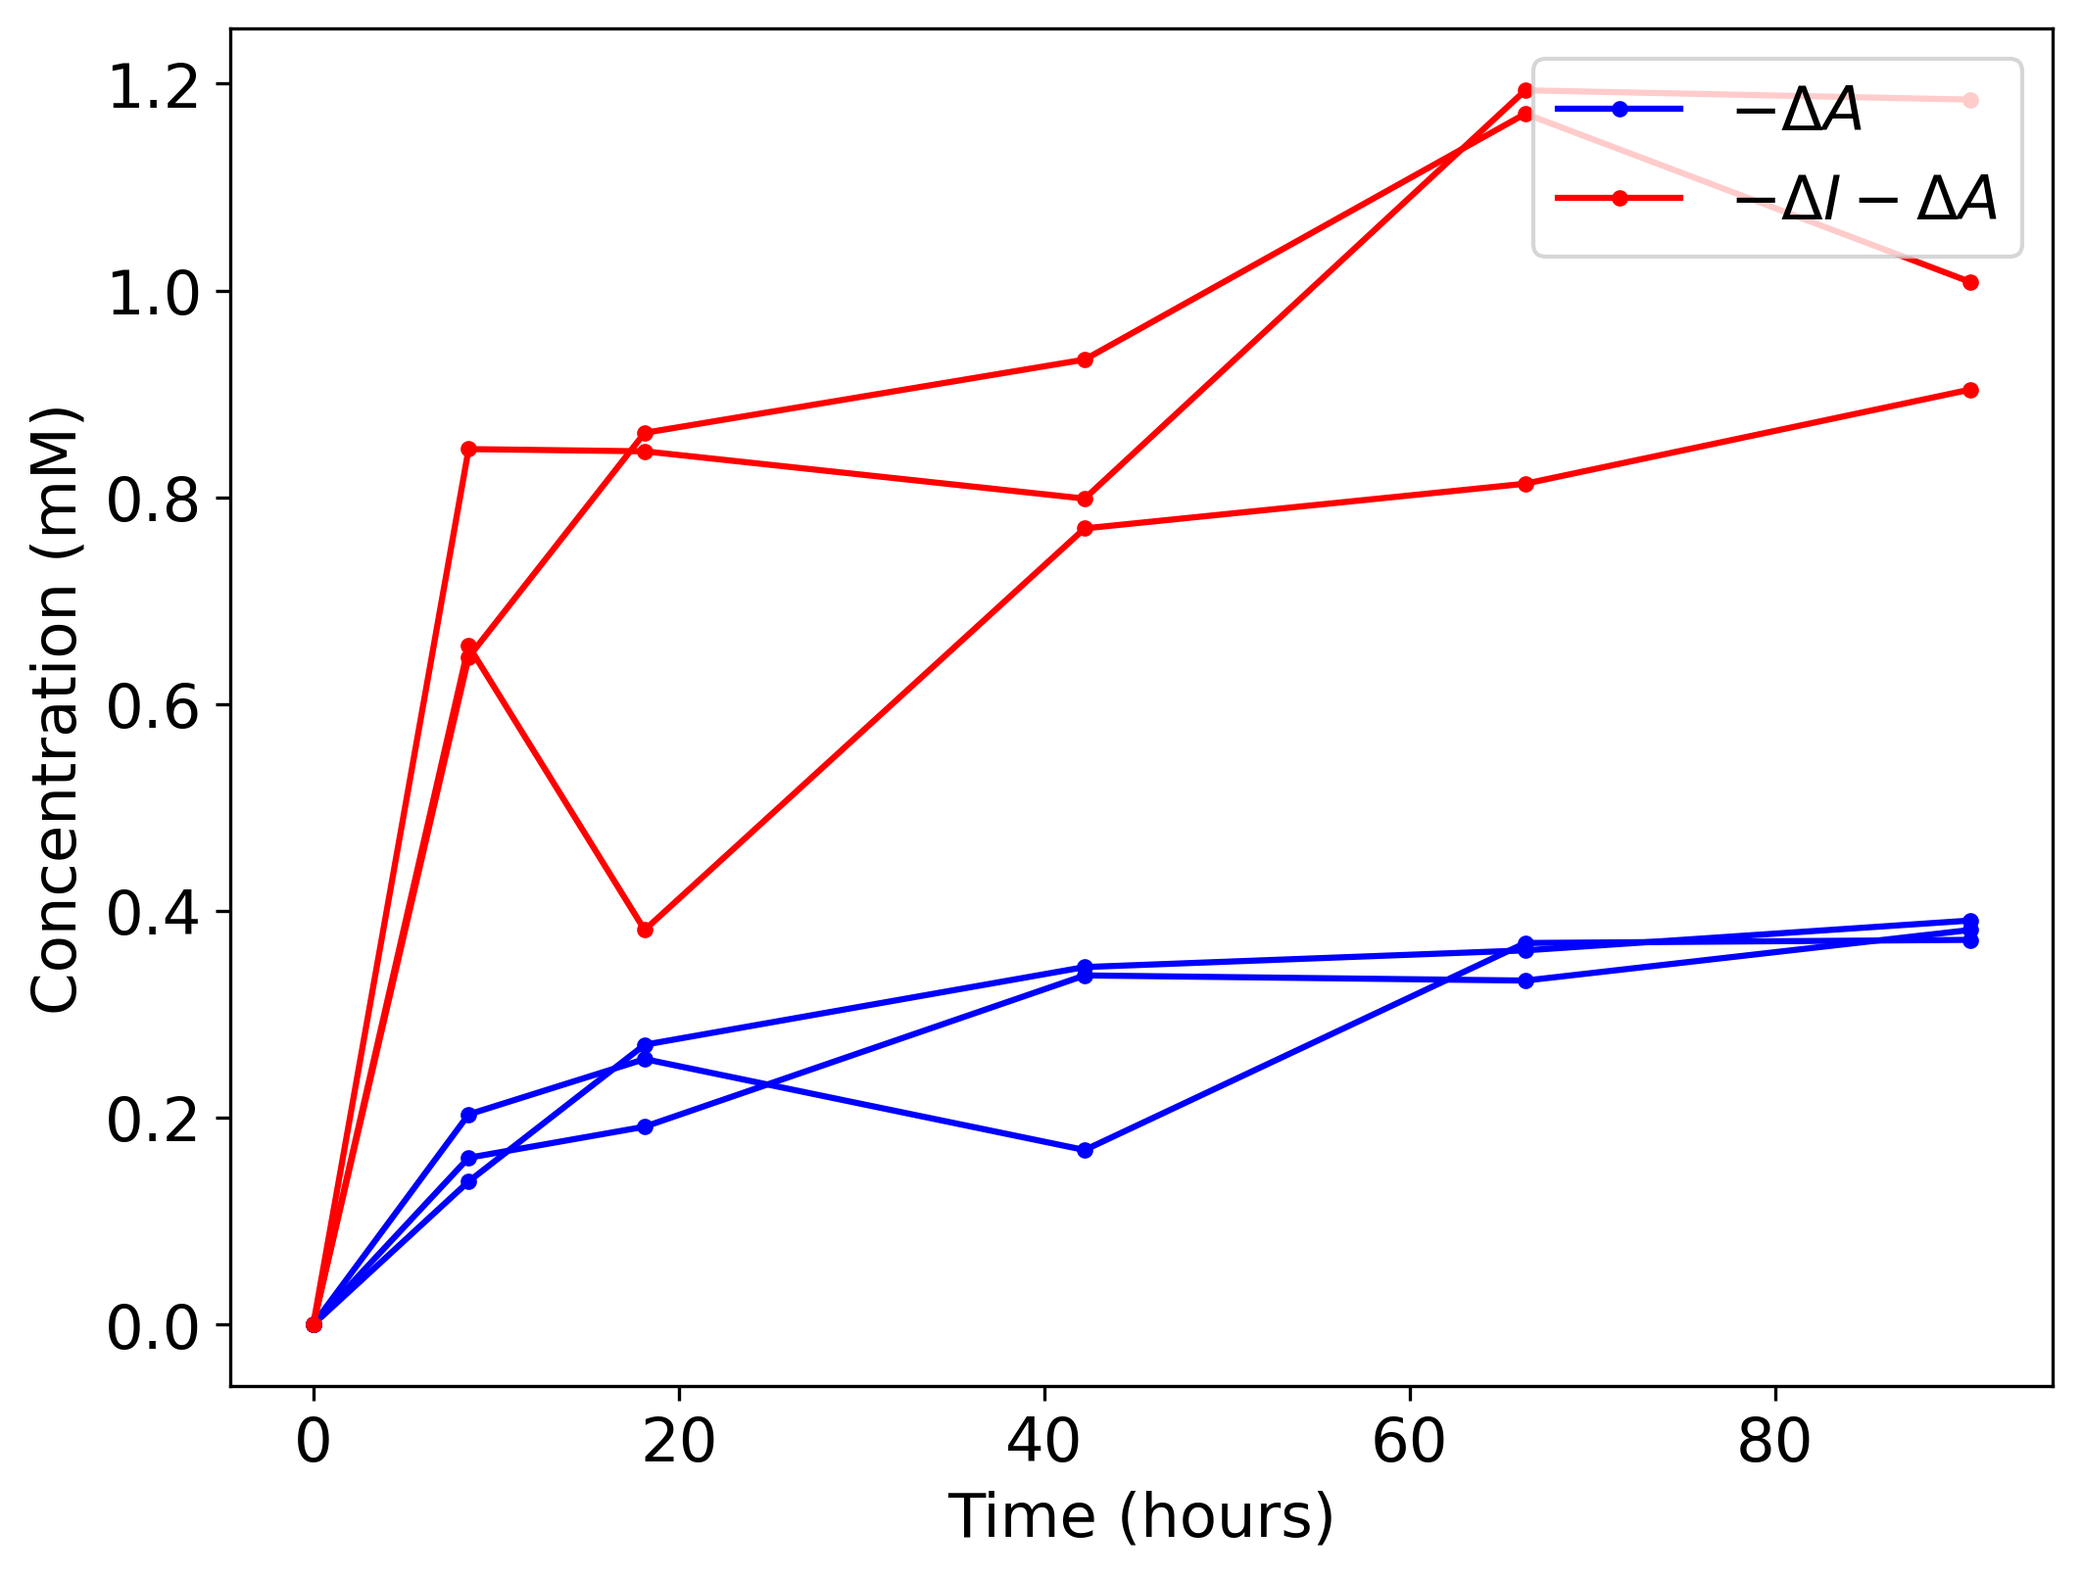
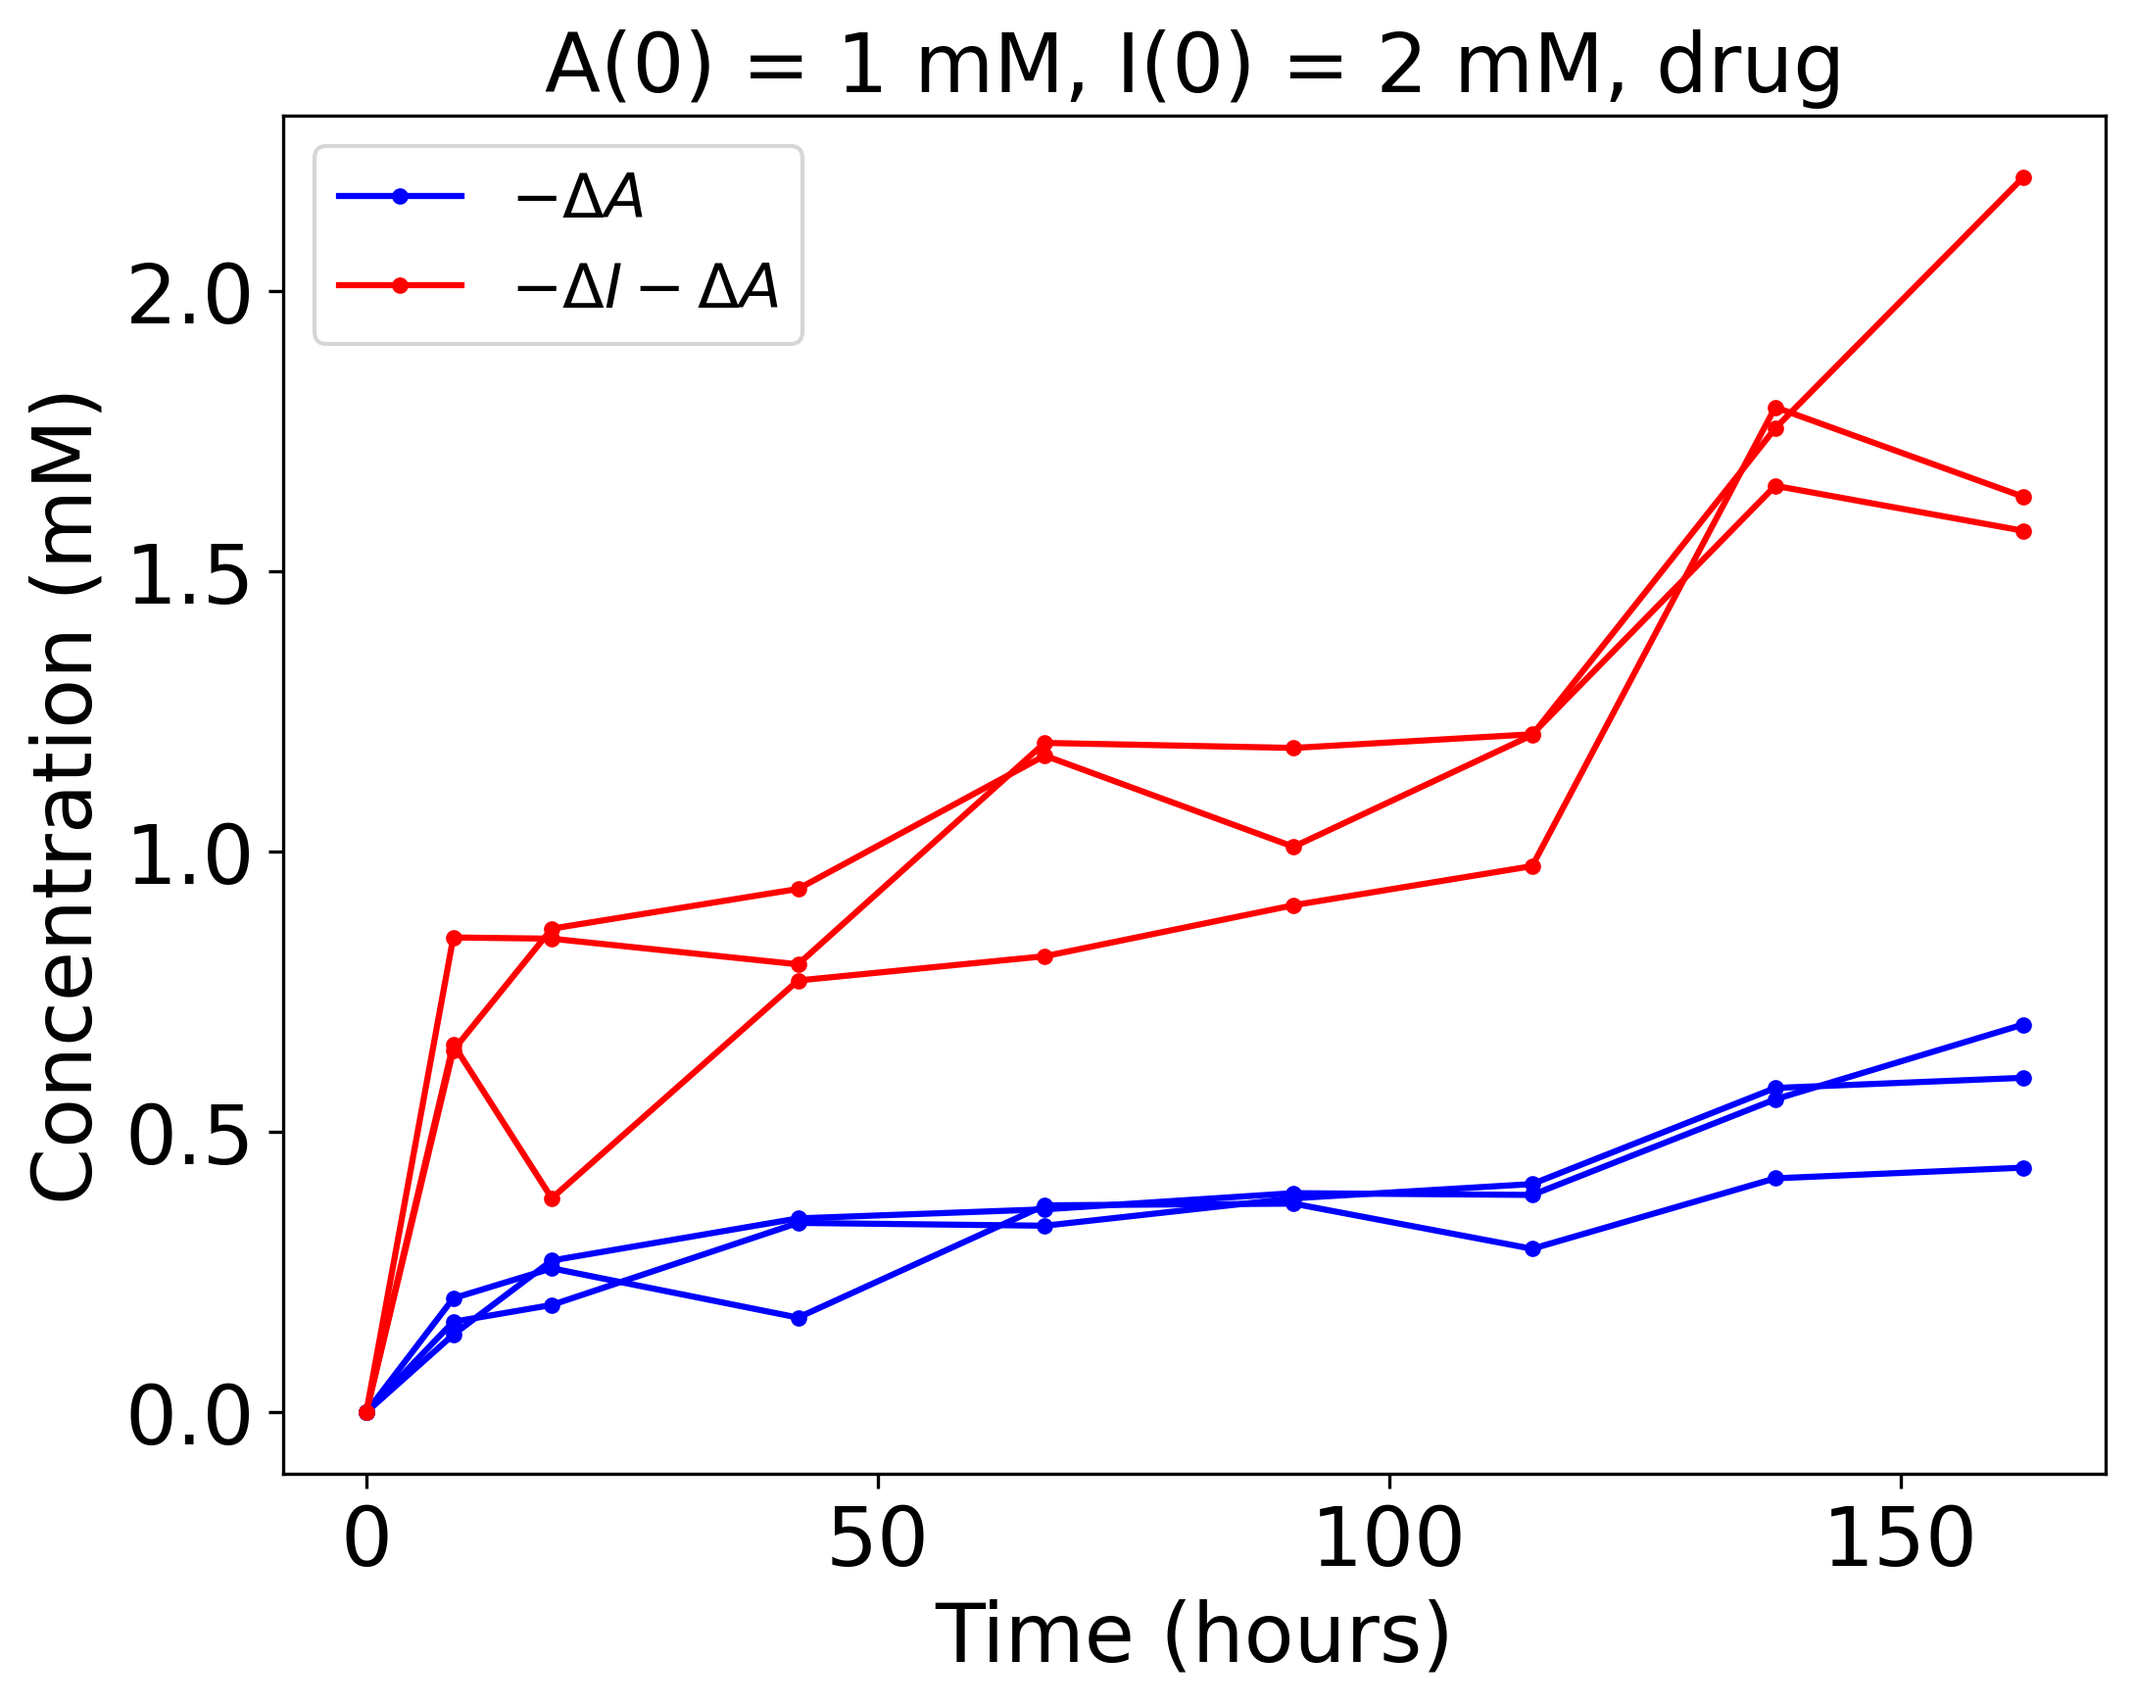
.

diff --git a/plot_no3_no2_nh4_chl01_20250414.py b/plot_no3_no2_nh4_chl01_20250414.py
@@ -26,33 +26,33 @@ times_chl1 = no3_chl1_evap.columns.astype(float).tolist()
 times_anti = no3_anti.columns.astype(float).tolist()
 
 
-# scatter plot, no3_no2_cons vs time, one condition, chl0 / chl1
-row = 'A01'
-fig, ax = plt.subplots(1, 1, figsize=(8, 6))
-ax.plot(times_chl0, no3_chl0_cons.loc[row], 'bo', label='$-\Delta A$')
-ax.plot(times_chl0, no2_chl0_cons.loc[row], 'ro', label='$-\Delta I -\Delta A$')
-ax.set_xlabel('Time (hours)', fontsize=15)
-ax.set_ylabel('Concentration (mM)', fontsize=15)
-ax.tick_params(axis='x', labelsize=15)
-ax.tick_params(axis='y', labelsize=15)
-ax.legend(fontsize=15)
-filename = f'scatter_no3_no2_chl0_cons_{row}.png'
-plt.savefig(f'plots/{filename}', dpi=300, bbox_inches='tight')
-print(f'Saved {filename}')
-plt.close()
+# # scatter plot, no3_no2_cons vs time, one condition, chl0 / chl1
+# row = 'A01'
+# fig, ax = plt.subplots(1, 1, figsize=(8, 6))
+# ax.plot(times_chl0, no3_chl0_cons.loc[row], 'bo', label='$-\Delta A$')
+# ax.plot(times_chl0, no2_chl0_cons.loc[row], 'ro', label='$-\Delta I -\Delta A$')
+# ax.set_xlabel('Time (hours)', fontsize=15)
+# ax.set_ylabel('Concentration (mM)', fontsize=15)
+# ax.tick_params(axis='x', labelsize=15)
+# ax.tick_params(axis='y', labelsize=15)
+# ax.legend(fontsize=15)
+# filename = f'scatter_no3_no2_chl0_cons_{row}.png'
+# plt.savefig(f'plots/{filename}', dpi=300, bbox_inches='tight')
+# print(f'Saved {filename}')
+# plt.close()
 
-fig, ax = plt.subplots(1, 1, figsize=(8, 6))
-ax.plot(times_chl1, no3_chl1_cons.loc[row], 'bo', label='$-\Delta A$')
-ax.plot(times_chl1, no2_chl1_cons.loc[row], 'ro', label='$-\Delta I -\Delta A$')
-ax.set_xlabel('Time (hours)', fontsize=15)
-ax.set_ylabel('Concentration (mM)', fontsize=15)
-ax.tick_params(axis='x', labelsize=15)
-ax.tick_params(axis='y', labelsize=15)
-ax.legend(fontsize=15)
-filename = f'scatter_no3_no2_chl1_cons_{row}.png'
-plt.savefig(f'plots/{filename}', dpi=300, bbox_inches='tight')
-print(f'Saved {filename}')
-plt.close()
+# fig, ax = plt.subplots(1, 1, figsize=(8, 6))
+# ax.plot(times_chl1, no3_chl1_cons.loc[row], 'bo', label='$-\Delta A$')
+# ax.plot(times_chl1, no2_chl1_cons.loc[row], 'ro', label='$-\Delta I -\Delta A$')
+# ax.set_xlabel('Time (hours)', fontsize=15)
+# ax.set_ylabel('Concentration (mM)', fontsize=15)
+# ax.tick_params(axis='x', labelsize=15)
+# ax.tick_params(axis='y', labelsize=15)
+# ax.legend(fontsize=15)
+# filename = f'scatter_no3_no2_chl1_cons_{row}.png'
+# plt.savefig(f'plots/{filename}', dpi=300, bbox_inches='tight')
+# print(f'Saved {filename}')
+# plt.close()
 
 
 
@@ -85,22 +85,23 @@ plt.close()
 #     print(f'Saved {filename}')
 
 
-# # no3_no2_chl1_cons vs time, one condition
-# rows = ['C07', 'C08', 'C09']
-# fig, ax = plt.subplots(1, 1, figsize=(8, 6))
-# for row in rows:
-#     ax.plot(times_chl1[:-3], no3_chl1_cons.loc[row][:-3], 'b.-')
-#     ax.plot(times_chl1[:-3], no2_chl1_cons.loc[row][:-3], 'r.-')
-# ax.set_xlabel('Time (hours)', fontsize=15)
-# ax.set_ylabel('Concentration (mM)', fontsize=15)
-# ax.tick_params(axis='x', labelsize=15)
-# ax.tick_params(axis='y', labelsize=15)
-# handles = [plt.Line2D([0], [0], color='b', marker='.', linestyle='-', label=f'$-\Delta A$'),
-#             plt.Line2D([0], [0], color='r', marker='.', linestyle='-', label=f'$-\Delta I -\Delta A$')]
-# ax.legend(handles=handles, loc='upper right', fontsize=15)
-# filename = f'no3_no2_chl1_cons_(1,2).png'
-# plt.savefig(f'plots/{filename}', dpi=300, bbox_inches='tight')
-# print(f'Saved plots/{filename}')
+# no3_no2_chl1_cons vs time, one condition
+rows = ['C07', 'C08', 'C09']
+fig, ax = plt.subplots(1, 1, figsize=(8, 6))
+for row in rows:
+    ax.plot(times_chl1[:], no3_chl1_cons.loc[row][:], 'b.-')
+    ax.plot(times_chl1[:], no2_chl1_cons.loc[row][:], 'r.-')
+ax.set_xlabel('Time (hours)', fontsize=20)
+ax.set_ylabel('Concentration (mM)', fontsize=20)
+ax.tick_params(axis='x', labelsize=20)
+ax.tick_params(axis='y', labelsize=20)
+handles = [plt.Line2D([0], [0], color='b', marker='.', linestyle='-', label=f'$-\Delta A$'),
+            plt.Line2D([0], [0], color='r', marker='.', linestyle='-', label=f'$-\Delta I -\Delta A$')]
+ax.legend(handles=handles, fontsize=15)
+ax.set_title('A(0) = 1 mM, I(0) = 2 mM, drug', fontsize=20)
+filename = f'no3_no2_chl1_cons_(1,2).png'
+plt.savefig(f'plots/{filename}', dpi=300, bbox_inches='tight')
+print(f'Saved plots/{filename}')
 
 # # no3_no2_chl0_cons vs time, all conditions withour carbon addition
 # rows = ['A01', 'A02', 'A03', 'A04', 'A05', 'A06', 'A07', 'A08', 'A09', 'A10', 'A11', 'A12', 'B01', 'B02', 'B03', 'B04', 'B05', 'B06', 'B07', 'B08', 'B09', 'B10', 'B11', 'B12', 'C01', 'C02', 'C03', 'C04', 'C05', 'C06', 'C07', 'C08', 'C09', 'C10', 'C11', 'C12', 'D01', 'D02', 'D03', 'D04', 'D05', 'D06', 'D07', 'D08', 'D09', 'E01', 'E02', 'E03', 'E04', 'E05', 'E06', 'E07', 'E08', 'E09', 'E10', 'E11', 'E12', 'F01', 'F02', 'F03', 'F04', 'F05', 'F06', 'F07', 'F08', 'F09', 'F10', 'F11', 'F12', 'G01', 'G02', 'G03', 'G04', 'G05', 'G06']
